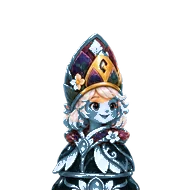
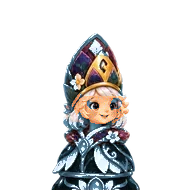
Test Hub: refresh test-apps/kingdom-chess/,  — staged only, no service worker
Deployed by scripts/deploy-testhub.sh: source and destination checkouts verified
by scripts/assert-checkout.sh, staged tree proven worker-free, scope audited to
test-apps/ only. Production untouched.

Changed region(s): [[0.375, 0.4688, 0.6875, 0.6562]]

diff --git a/test-apps/kingdom-chess/index.html b/test-apps/kingdom-chess/index.html
@@ -7,9 +7,9 @@
 <meta name="theme-color" content="#f9efd9">
 <meta name="apple-mobile-web-app-capable" content="yes">
 <meta name="apple-mobile-web-app-title" content="Kingdom Chess">
-<link rel="icon" href="./art/runtime/icon/icon-192.png?v=16fa704f8-20261021123501" sizes="192x192" type="image/png">
-<link rel="apple-touch-icon" href="./art/runtime/icon/icon-192.png?v=16fa704f8-20261021123501">
-<link rel="manifest" href="./manifest.webmanifest?v=16fa704f8-20261021123501">
+<link rel="icon" href="./art/runtime/icon/icon-192.png?v=8a53c776d-20261021164836" sizes="192x192" type="image/png">
+<link rel="apple-touch-icon" href="./art/runtime/icon/icon-192.png?v=8a53c776d-20261021164836">
+<link rel="manifest" href="./manifest.webmanifest?v=8a53c776d-20261021164836">
 <link rel="stylesheet" href="./css/chess.css?v=r7">
 </head>
 <body>
@@ -17,15 +17,15 @@
 <div id="promotion" class="modal" hidden></div>
 <div id="tutorial" class="modal lesson-modal" hidden></div>
 <div id="handbook" class="modal handbook-modal" hidden></div>
-<script src="./js/tap-zoom-guard.js?v=16fa704f8-20261021123501"></script>
-<script src="./js/chess-engine.js?v=16fa704f8-20261021123501"></script>
-<script src="./js/chess-ai.js?v=16fa704f8-20261021123501"></script>
-<script src="./js/icons.js?v=16fa704f8-20261021123501"></script>
-<script src="./js/kingdoms.js?v=16fa704f8-20261021123501"></script>
-<script src="./js/piece-art.js?v=r7"></script>
-<script src="./js/chess-sound.js?v=16fa704f8-20261021123501"></script>
-<script src="./js/tutorial.js?v=16fa704f8-20261021123501"></script>
-<script src="./js/handbook.js?v=16fa704f8-20261021123501"></script>
-<script src="./js/chess-app.js?v=16fa704f8-20261021123501"></script>
+<script src="./js/tap-zoom-guard.js?v=8a53c776d-20261021164836"></script>
+<script src="./js/chess-engine.js?v=8a53c776d-20261021164836"></script>
+<script src="./js/chess-ai.js?v=8a53c776d-20261021164836"></script>
+<script src="./js/icons.js?v=8a53c776d-20261021164836"></script>
+<script src="./js/kingdoms.js?v=8a53c776d-20261021164836"></script>
+<script src="./js/piece-art.js?v=r8"></script>
+<script src="./js/chess-sound.js?v=8a53c776d-20261021164836"></script>
+<script src="./js/tutorial.js?v=8a53c776d-20261021164836"></script>
+<script src="./js/handbook.js?v=8a53c776d-20261021164836"></script>
+<script src="./js/chess-app.js?v=8a53c776d-20261021164836"></script>
 </body>
 </html>

diff --git a/test-apps/kingdom-chess/js/piece-art.js b/test-apps/kingdom-chess/js/piece-art.js
@@ -5,9 +5,9 @@
   var heights={k:.88,q:.84,b:.78,n:.75,r:.70,p:.58};
   var root="./art/runtime/";
   var boundsPromise=fetch("./js/piece-bounds.json").then(function(r){if(!r.ok)throw Error(r.status);return r.json();});
-  function piecePath(kingdom,colourway,type){return root+folders[kingdom]+"/pieces/"+colourway+"-"+names[type]+".webp?v=r7";}
-  function assetPath(kingdom,file){return root+folders[kingdom]+"/"+file+".webp?v=r7";}
-  function portraitPath(kingdom,type){return root+folders[kingdom]+"/portraits/"+names[type]+".webp?v=r7";}
+  function piecePath(kingdom,colourway,type){return root+folders[kingdom]+"/pieces/"+colourway+"-"+names[type]+".webp?v=r8";}
+  function assetPath(kingdom,file){return root+folders[kingdom]+"/"+file+".webp?v=r8";}
+  function portraitPath(kingdom,type){return root+folders[kingdom]+"/portraits/"+names[type]+".webp?v=r8";}
   function framePath(kingdom){return root+folders[kingdom]+"/frame.webp";}
   function geometry(bound,type,square){
     var scale=Math.min(heights[type]*square/bound.height,.92*square/bound.width);
